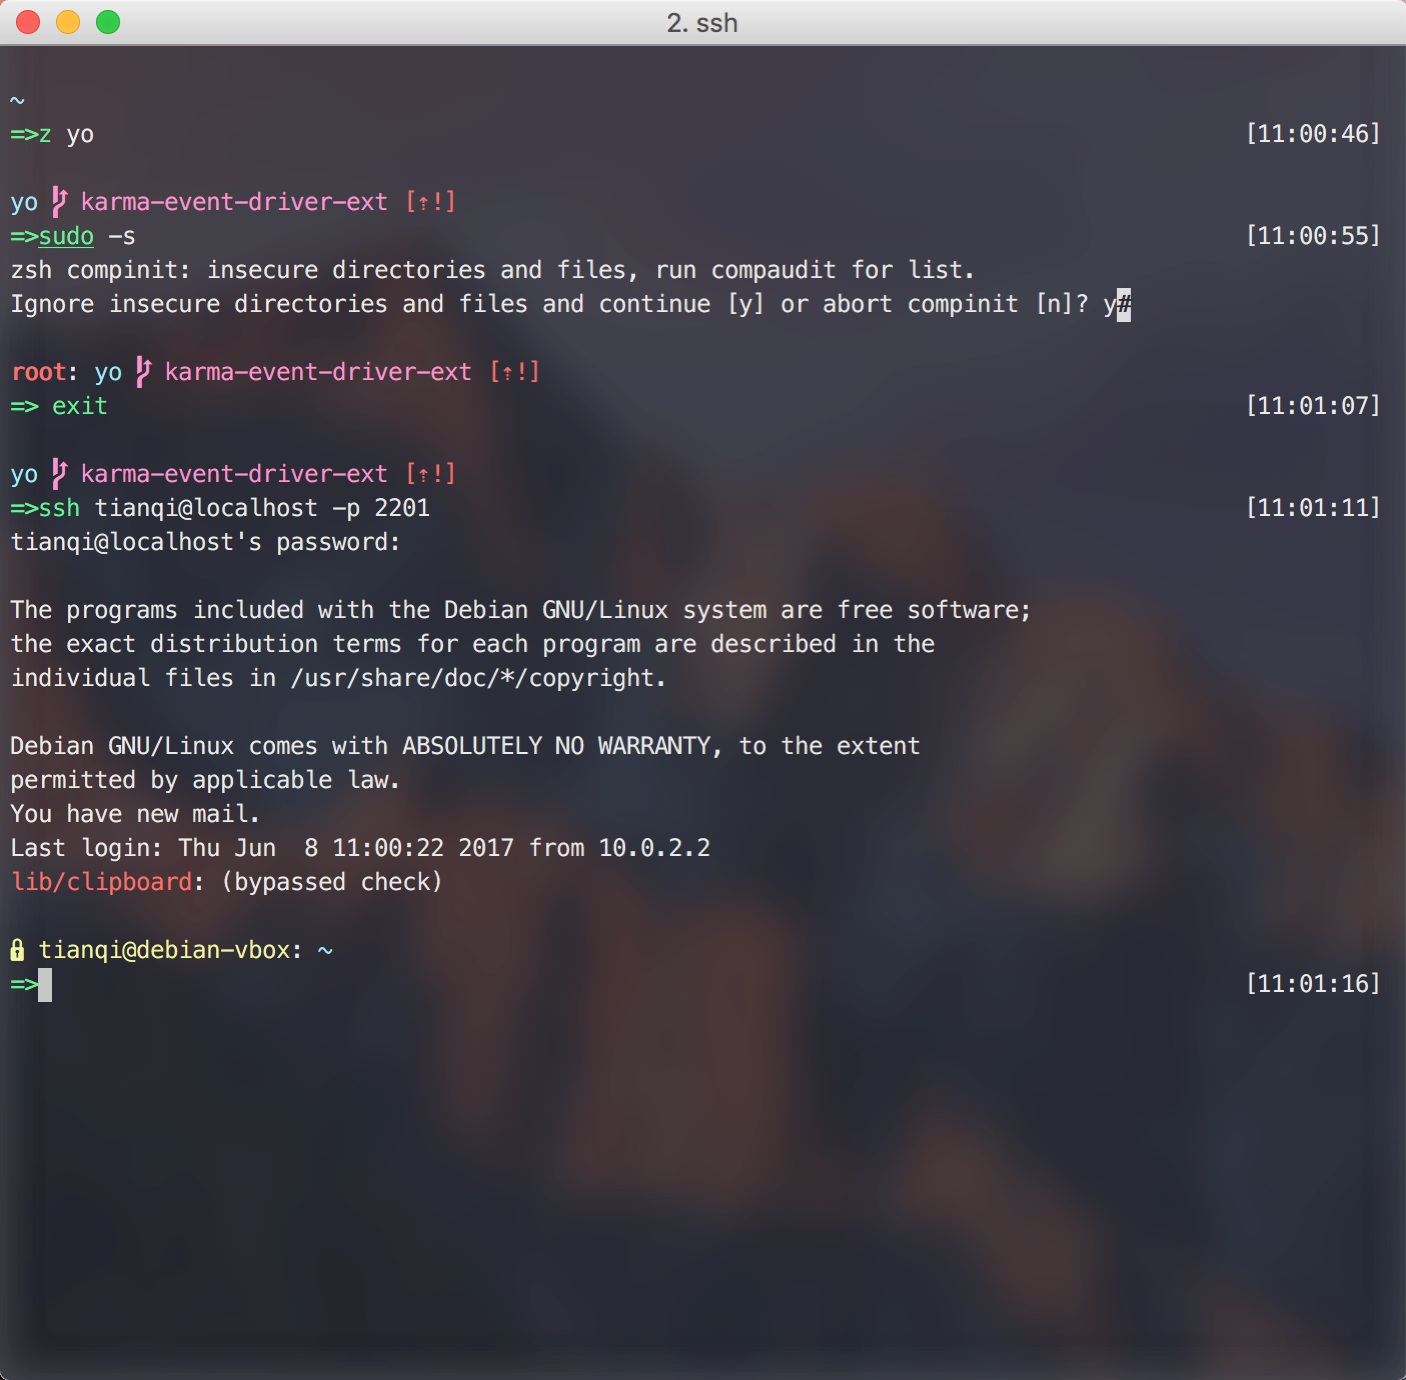
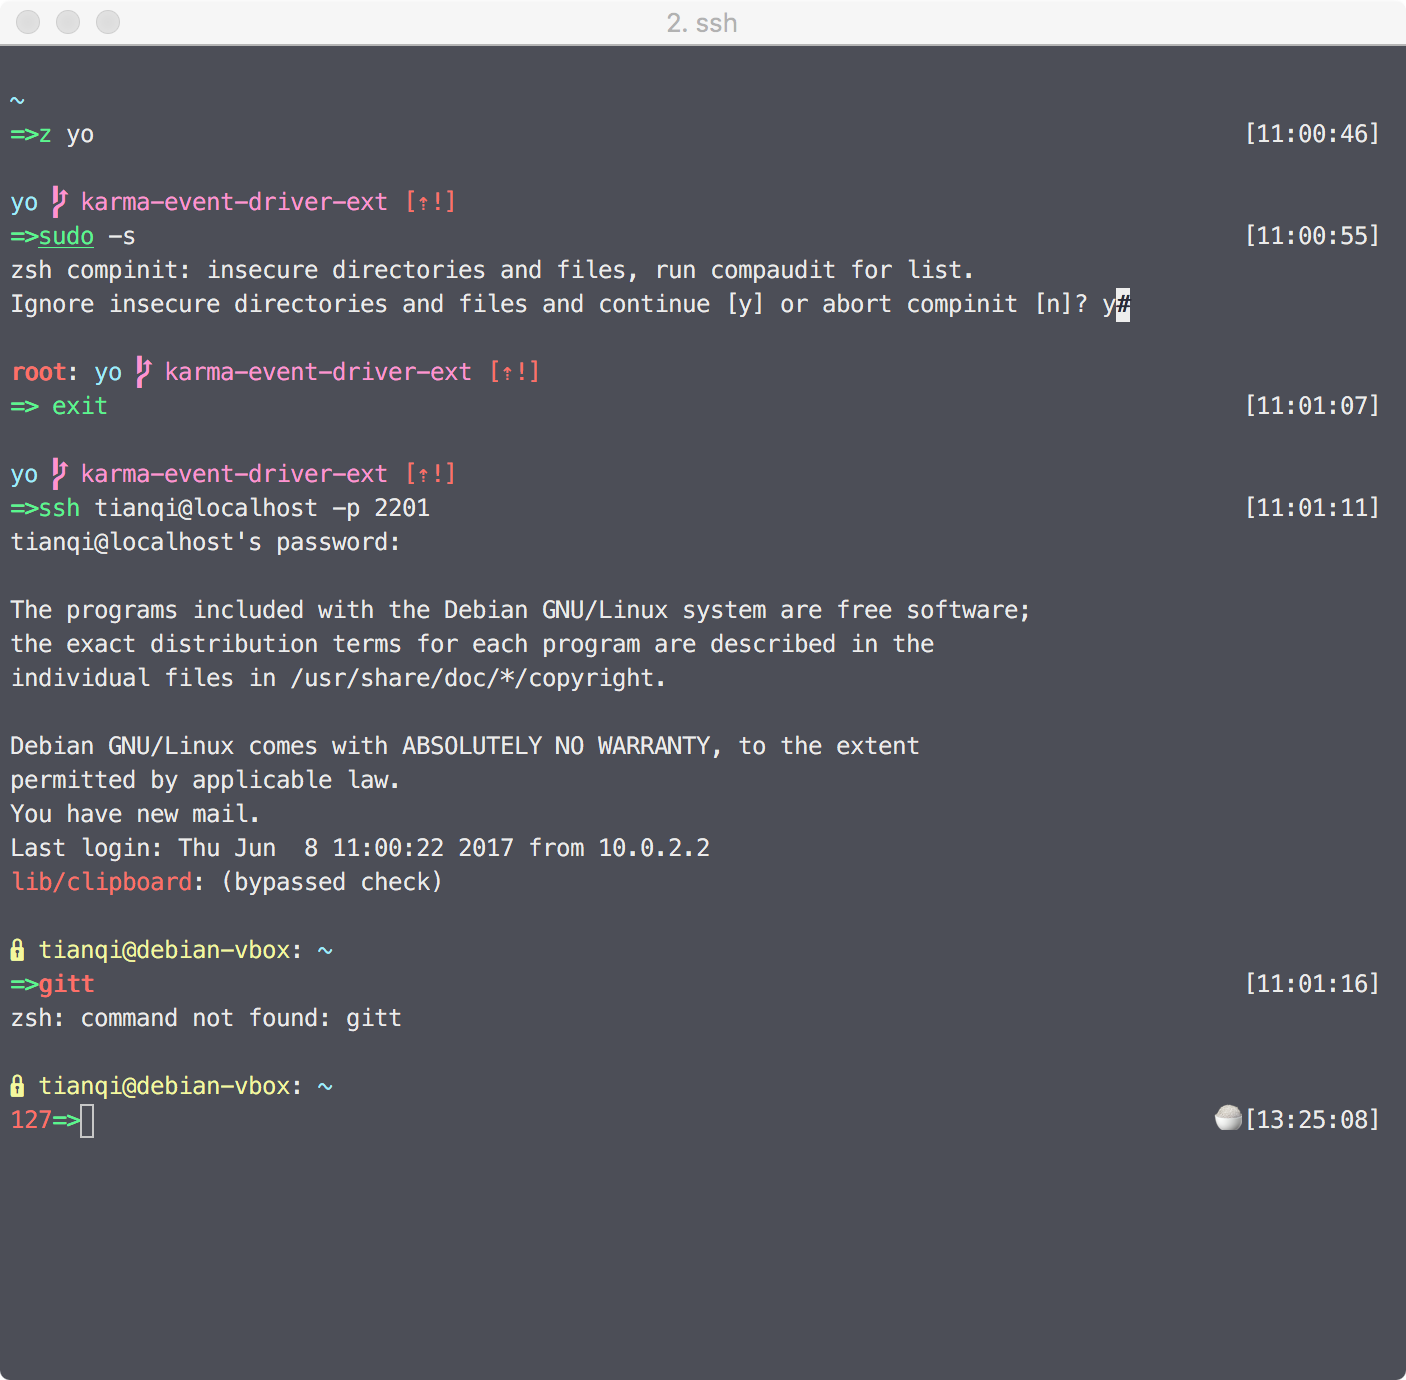
change screenshot & readme

diff --git a/README.md b/README.md
@@ -10,12 +10,13 @@
 - Git branch info
 - Git status info
 - Time stamp
+- Exit code
 
 ## ScreenShot
 
 ![Screenshot](https://github.com/kitian616/tq-zsh-theme/blob/master/Screenshot.png?raw=true)
 
-## How to install
+## How to installexit_code
 
 ### Install for Oh-My-ZSH
 
